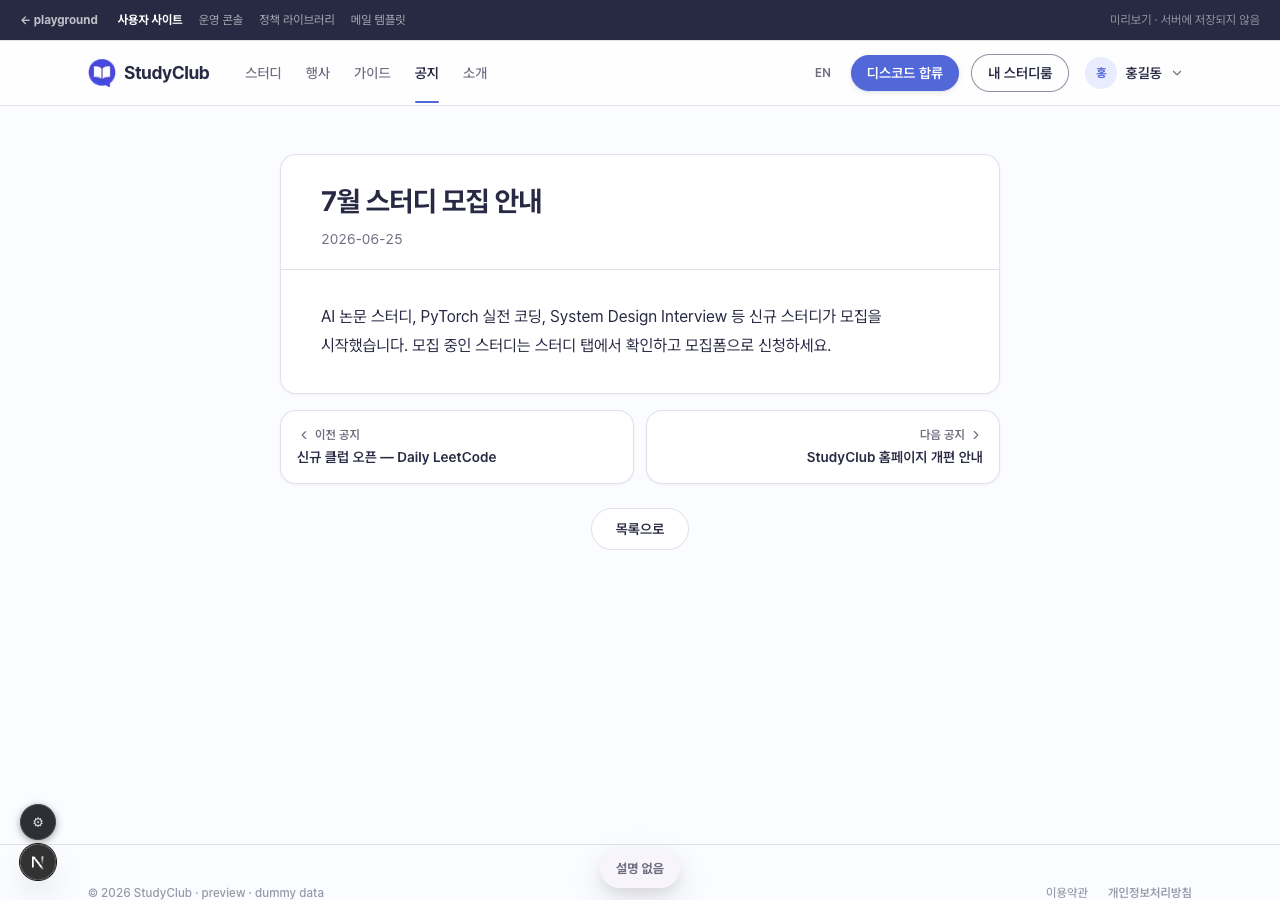
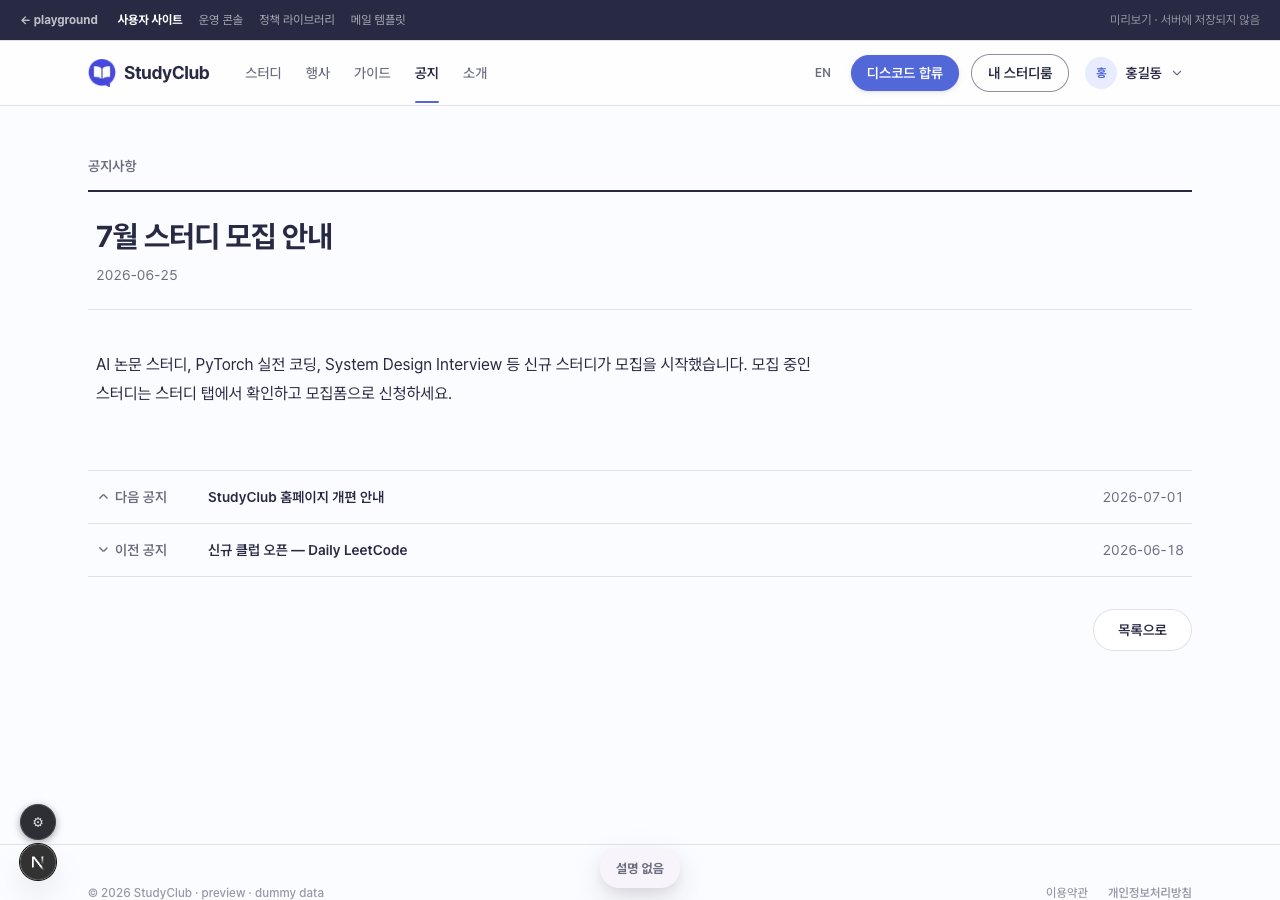
crew-view-notices PRD: 게시판 모양 반영, 화면 캡처 갱신

diff --git a/01-planning/stories/crew-view-notices/PRD.md b/01-planning/stories/crew-view-notices/PRD.md
@@ -43,6 +43,7 @@ flowchart LR
 ![공지 목록](https://raw.githubusercontent.com/StudyClub-PlusPlus/studyclub-engineering/beta/01-planning/stories/crew-view-notices/assets/list.png)
 
 - **내용**: 제목 · 게시일 한 줄씩. 작성자 · 분류 · 고정 표시 없음
+- **모양**: 페이지 폭을 다 쓰는 게시판 — 카드로 감싸지 않는다. 가운데 한 덩어리로 두면 앱 화면처럼 보인다
 - **동작**
   - 게시일 내림차순 고정. 정렬을 바꾸는 수단은 없다
   - 10건씩 페이지. 한 페이지에 다 들어가면 페이지 번호를 보이지 않는다
@@ -55,7 +56,8 @@ flowchart LR
 
 ![공지 상세](https://raw.githubusercontent.com/StudyClub-PlusPlus/studyclub-engineering/beta/01-planning/stories/crew-view-notices/assets/detail.png)
 
-- **내용**: 제목 · 게시일 · 본문. 아래에 이전 공지 · 다음 공지, 「목록으로」
+- **내용**: 제목 · 게시일 · 본문. 아래에 다음 공지 · 이전 공지 두 줄, 「목록으로」
+- **모양**: 목록과 같은 게시판 글 — 페이지 폭, 카드 없음. 본문 글줄만 읽기 폭으로 묶는다
 - **본문**
   - 평문이다. 줄바꿈과 공백을 그대로 보존한다 (`white-space: pre-wrap`)
   - HTML 로 해석하지 않는다. 입력된 태그는 문자 그대로 보인다
